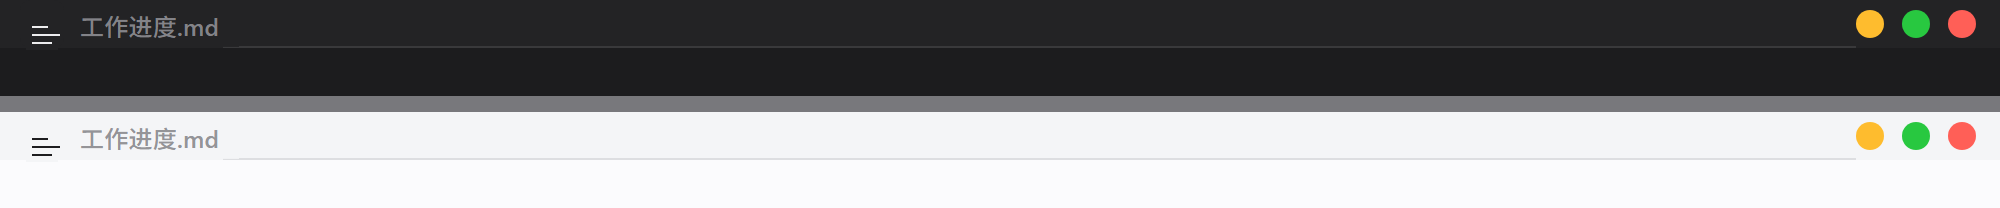
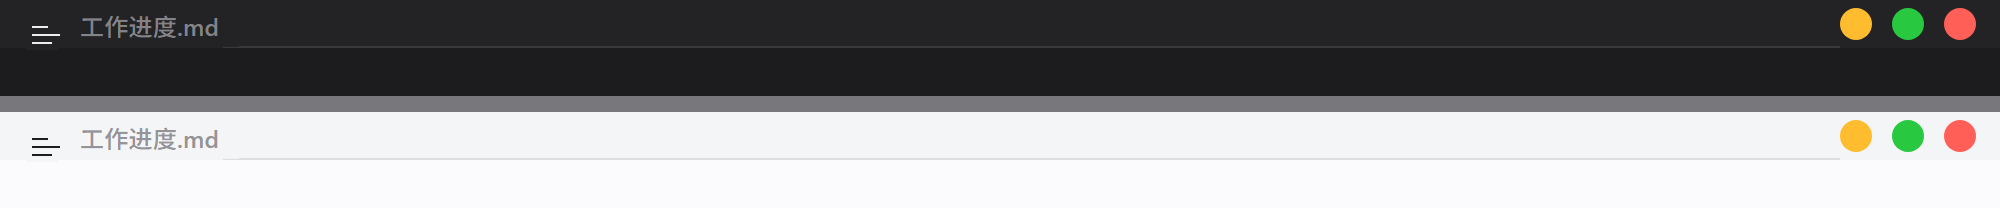
圆点放大到 18px，同步预览图与说明文档

Changed region(s): [[0.899, 0.0288, 0.992, 0.2019], [0.899, 0.5769, 0.992, 0.7212]]

diff --git a/macos-parts/window.css b/macos-parts/window.css
@@ -3,7 +3,7 @@
  * ------------------------------------------------------------
  * 作用：把 Typora 自绘的窗口标题栏做成 macOS 观感——
  *       右上角三个彩色圆点：黄=最小化、绿=最大化、红=关闭（红点在绿点右边），
- *       直径 14px、间距 9px、右边距 12px。
+ *       直径 18px、间距 11px、右边距 12px。
  *
  * 生效前提：Typora 偏好设置 → Window Style → Unibody（改完重启）。
  *           默认的 Classic 模式窗口由 Windows 绘制，CSS 碰不到。
@@ -61,16 +61,16 @@
   float: right;
   display: flex;
   align-items: center;
-  gap: 9px;
+  gap: 11px;
   height: 24px;
   padding-right: 12px;
 }
 #top-titlebar #w-close,
 #top-titlebar #w-min,
 #top-titlebar #w-max {
-  width: 14px;
-  height: 14px;
-  min-width: 14px;
+  width: 18px;
+  height: 18px;
+  min-width: 18px;
   padding: 0;
   margin: 0;
   border: 0;
@@ -101,9 +101,9 @@
 .typora-maxmized #top-titlebar #w-restore {
   order: 2;
   display: flex;
-  width: 14px;
-  height: 14px;
-  min-width: 14px;
+  width: 18px;
+  height: 18px;
+  min-width: 18px;
   padding: 0;
   margin: 0;
   border: 0;
@@ -117,9 +117,9 @@
 .always-on-top #top-titlebar #w-unpin {
   order: 4;
   display: flex;
-  width: 14px;
-  height: 14px;
-  min-width: 14px;
+  width: 18px;
+  height: 18px;
+  min-width: 18px;
   padding: 0;
   margin: 0;
   border: 0;
@@ -140,7 +140,7 @@
 #top-titlebar #w-max::after,
 #top-titlebar #w-restore::after {
   color: rgba(0, 0, 0, .62);
-  font: 800 11px/1 var(--win-chrome-font);
+  font: 800 13px/1 var(--win-chrome-font);
 }
 #top-titlebar #w-close:hover::after { content: "\00d7"; }
 #top-titlebar #w-min:hover::after { content: "\2212"; }
